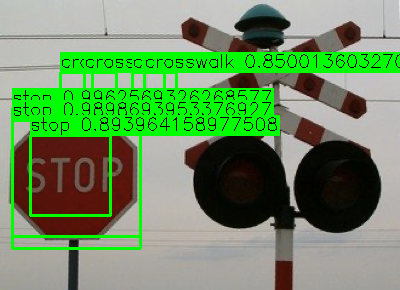
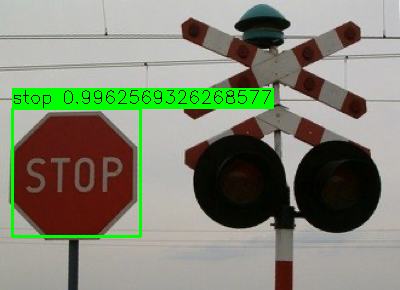
Add NMS and finished project

Changed region(s): [[0.03, 0.3414, 0.72, 0.7759], [0.15, 0.1552, 1.0, 0.3103], [0.03, 0.8069, 0.36, 0.869]]

diff --git a/code/ObjectDetector.py b/code/ObjectDetector.py
@@ -87,10 +87,68 @@ class ObjectDetector:
         # plt.axis('off')
         # plt.show()
         
+    
+    #compute IoU function for NMS calculation
+    def compute_iou(self, bbox, bboxes, bbox_area, bboxes_area):
+        xxmin = np.maximum(bbox[0], bboxes[:, 0])
+        yymin = np.maximum(bbox[1], bboxes[:, 1])
+        xxmax = np.maximum(bbox[2], bboxes[:, 2])
+        yymax = np.maximum(bbox[3], bboxes[:, 3])
         
+        w = np.maximum(0, xxmax - xxmin + 1)
+        h = np.maximum(0, yymax - yymin + 1)
+        
+        intersection = w * h
+        iou = intersection / (bbox_area + bboxes_area - intersection)
+        
+        return iou
+    
+    
+    #compute Non-Maximum Suppression
+    def nms(self, bboxes, iou_threshold):
+        if not bboxes:
+            return []
+        
+        scores = np.array([bbox[5] for bbox in bboxes])
+        sorted_indices = np.argsort(scores)[::-1]
+        
+        xmin = np.array([bbox[0] for bbox in bboxes])
+        ymin = np.array([bbox[1] for bbox in bboxes])
+        xmax = np.array([bbox[2] for bbox in bboxes])
+        ymax = np.array([bbox[3] for bbox in bboxes])
+        
+        areas = (xmax - xmin + 1) * (ymax - ymin + 1)
+        
+        keep = []
+        
+        while sorted_indices.size > 0:
+            i = sorted_indices[0]
+            keep.append(i)
+            
+            iou = self.compute_iou(
+                [xmin[i], ymin[i], xmax[i], ymax[i]],
+                np.array(
+                    [
+                        xmin[sorted_indices[1:]],
+                        ymin[sorted_indices[1:]],
+                        xmax[sorted_indices[1:]],
+                        ymax[sorted_indices[1:]]
+                    ]
+                ).T,
+                areas[i],
+                areas[sorted_indices[1:]]
+            )
+            idx_to_keep = np.where(iou <= iou_threshold)[0]
+            sorted_indices = sorted_indices[idx_to_keep + 1]
+            
+        return [bboxes[i] for i in keep]
+            
+    
+        
+    #detect the object in the image file    
     def detect(self, img_dir):
         img_filename_lst = os.listdir(img_dir)[:20]
-        conf_threshold = 0.85
+        conf_threshold = 0.9
         stride = 12
         window_sizes = [
             (32, 32),
@@ -135,6 +193,8 @@ class ObjectDetector:
                         bboxes.append(
                             [xmin, ymin, xmax, ymax, predict_id, conf_score]
                         )
+                        
+            bboxes = self.nms(bboxes, 0.5)
             self.visualize_bbox(img_filename, img, bboxes, self.clf.label_encoder)
             
             
